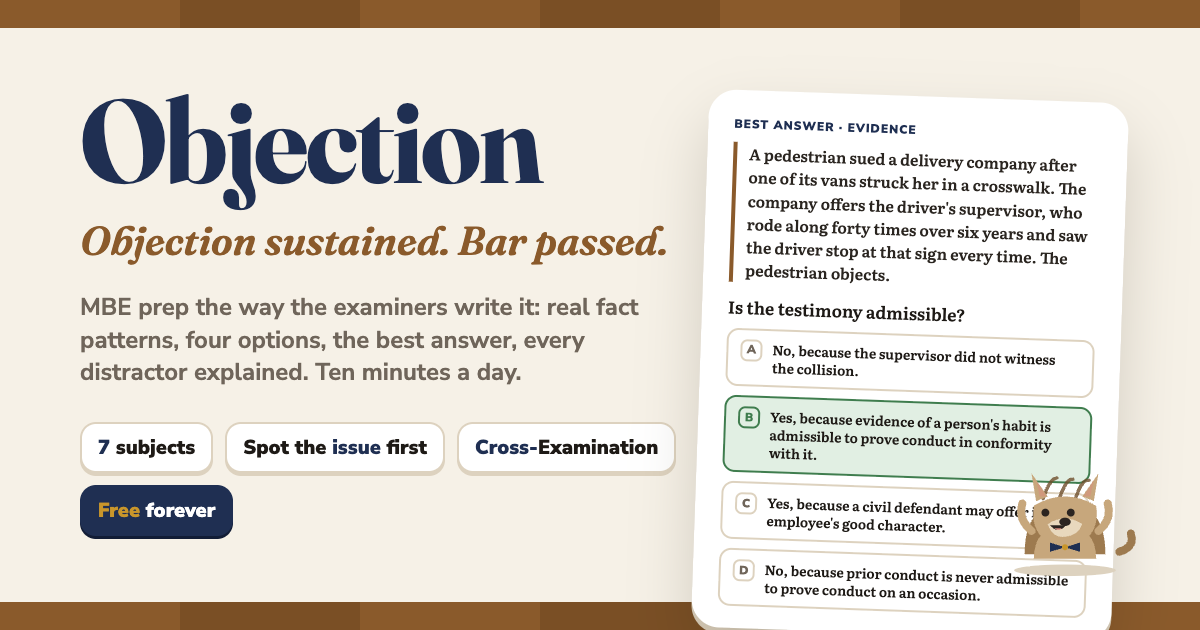
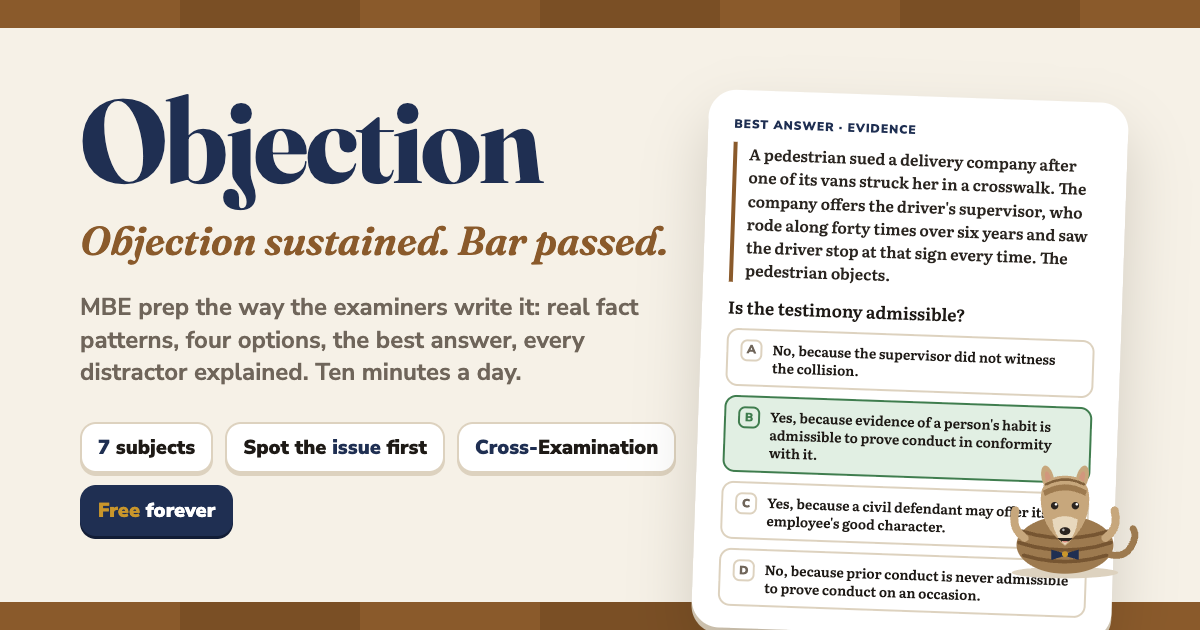
Final review: fix the delivery-of-possession rule, redraw Amicus, repair the build layout and tap-the-facts, add README
- u10: the English rule (landlord must deliver actual possession, the US majority) and the American rule (legal right only) were swapped in the rule card, its quiz and the hypo
- u9: FRE 807 no longer lists the pre-2019 'not covered by 803/804' element
- u1: a shorter controlling-law card
- Tap the deciding facts: tapping any word selects the whole fact, grading is per fact, the explanation no longer repeats the facts
- Spot the trap: the explanation no longer repeats itself when the classmate's answer is the key
- .stage children no longer shrink: the build slots were squeezed to 64px and the bank overlapped them
- Amicus redrawn as an armadillo (long snout, tall ears, banded shell, tail); amicus.svg, the share card and the icon are now generated from app.js's mascot()
- Greetings keep their capitals after the name; a perfect sitting says 'No objections.'
- README in Carpe's shape

Claude-Session: https://claude.ai/code/session_01RngvbApdeNcwjzaeWqZMFm

Changed region(s): [[0.8325, 0.7238, 0.9558, 0.9349]]

diff --git a/app/src/app.js b/app/src/app.js
@@ -53,39 +53,40 @@
   /** Amicus, the armadillo in a bow tie. mood: happy | sad | cheer | robe | sleepy */
   function mascot(mood = "happy") {
     const sad = mood === "sad", sleepy = mood === "sleepy";
+    // Eyes sit high on a long face; the snout runs down to the nose.
     const eyes = sleepy
-      ? '<path d="M50 56q4 3 8 0M72 56q4 3 8 0" stroke="var(--m-ink)" stroke-width="2.4" fill="none" stroke-linecap="round"/>'
+      ? '<path d="M52 50q4 3 8 0M70 50q4 3 8 0" stroke="var(--m-ink)" stroke-width="2.4" fill="none" stroke-linecap="round"/>'
       : sad
-        ? '<path d="M50 56q4-3 8 0M72 56q4-3 8 0" stroke="var(--m-ink)" stroke-width="2.4" fill="none" stroke-linecap="round"/><circle cx="54" cy="58" r="2" fill="var(--m-ink)"/><circle cx="76" cy="58" r="2" fill="var(--m-ink)"/>'
-        : '<circle cx="54" cy="56" r="3.4" fill="var(--m-ink)"/><circle cx="76" cy="56" r="3.4" fill="var(--m-ink)"/><circle cx="55.3" cy="54.8" r="1.1" fill="#fff"/><circle cx="77.3" cy="54.8" r="1.1" fill="#fff"/>';
+        ? '<path d="M51 48.5q4-4.5 9-2.5M70 46q5-2 9 2.5" stroke="var(--m-ink)" stroke-width="2.2" fill="none" stroke-linecap="round"/><circle cx="56" cy="52" r="2.4" fill="var(--m-ink)"/><circle cx="74" cy="52" r="2.4" fill="var(--m-ink)"/>'
+        : '<circle cx="56" cy="50" r="3.2" fill="var(--m-ink)"/><circle cx="74" cy="50" r="3.2" fill="var(--m-ink)"/><circle cx="57.2" cy="48.8" r="1.1" fill="#fff"/><circle cx="75.2" cy="48.8" r="1.1" fill="#fff"/>';
     const mouth = sad
-      ? '<path d="M59 75q6-4.5 12 0" stroke="var(--m-ink)" stroke-width="2.2" fill="none" stroke-linecap="round"/>'
+      ? '<path d="M60 82q5-3.5 10 0" stroke="var(--m-ink)" stroke-width="2.2" fill="none" stroke-linecap="round"/>'
       : mood === "cheer"
-        ? '<path d="M57 70.5q8 9 16 0z" fill="var(--m-ink)"/><path d="M61 73.5q4 3.5 8 0z" fill="var(--m-tongue)"/>'
-        : sleepy ? '<path d="M59 72q6 2.5 12 0" stroke="var(--m-ink)" stroke-width="2.2" fill="none" stroke-linecap="round"/>'
-          : '<path d="M58 70.5q7 5.5 14 0" stroke="var(--m-ink)" stroke-width="2.2" fill="none" stroke-linecap="round"/>';
-    // Armadillo, front view: a wide banded shell body, a pointed snout, small rounded ears and a banded cap on the
-    // head, a long tail, a bow tie at the neck. (Not a wolf: no pointed ears; not a bear: the snout and the bands.)
-    const bands = '<path d="M27 70q38 12 76 0M25 80q40 13 80 0M29 91q36 11 72 0" stroke="var(--m-band)" stroke-width="3.2" fill="none" stroke-linecap="round" opacity="0.85"/>';
+        ? '<path d="M58.5 78q6.5 7.5 13 0z" fill="var(--m-ink)"/><path d="M62 80.5q3 3 6 0z" fill="var(--m-tongue)"/>'
+        : sleepy ? '<path d="M60 79.5q5 2 10 0" stroke="var(--m-ink)" stroke-width="2.2" fill="none" stroke-linecap="round"/>'
+          : '<path d="M59.5 78.5q5.5 4.5 11 0" stroke="var(--m-ink)" stroke-width="2.2" fill="none" stroke-linecap="round"/>';
+    // Amicus, front view: a big banded shell, a long face that narrows to a snout with the nose at its tip, tall oval
+    // ears up top, a banded plate on the forehead, a tail curling out to the right, a bow tie under the chin.
+    const bands = '<path d="M27 72q38 12 76 0M25 82q40 13 80 0M29 93q36 11 72 0" stroke="var(--m-band)" stroke-width="3.2" fill="none" stroke-linecap="round" opacity="0.85"/>';
     const arms = mood === "cheer"
-      ? '<path d="M30 76q-12-8-8-24" stroke="var(--m-skin)" stroke-width="7" stroke-linecap="round" fill="none"/><path d="M100 76q12-8 8-24" stroke="var(--m-skin)" stroke-width="7" stroke-linecap="round" fill="none"/>'
-      : '<ellipse cx="46" cy="102" rx="9" ry="5" fill="var(--m-skin)"/><ellipse cx="84" cy="102" rx="9" ry="5" fill="var(--m-skin)"/>';
-    const robe = mood === "robe" ? '<path d="M32 88q33 14 66 0v18H32z" fill="#1a1a1f"/><path d="M58 88h14l-7 12z" fill="#fff"/>' : "";
-    const zz = sleepy ? '<text x="98" y="36" font-family="Fraunces, Georgia, serif" font-style="italic" font-weight="700" font-size="14" fill="var(--muted)">z z</text>' : "";
+      ? '<path d="M30 78q-12-8-8-24" stroke="var(--m-skin)" stroke-width="7" stroke-linecap="round" fill="none"/><path d="M100 78q12-8 8-24" stroke="var(--m-skin)" stroke-width="7" stroke-linecap="round" fill="none"/>'
+      : '<ellipse cx="44" cy="103" rx="9" ry="5" fill="var(--m-skin)"/><ellipse cx="86" cy="103" rx="9" ry="5" fill="var(--m-skin)"/><path d="M38 105v3M44 106v3M50 105v3M80 105v3M86 106v3M92 105v3" stroke="var(--m-ink)" stroke-width="1.6" stroke-linecap="round" opacity="0.6"/>';
+    const robe = mood === "robe" ? '<path d="M32 90q33 14 66 0v18H32z" fill="#1a1a1f"/><path d="M58 90h14l-7 12z" fill="#fff"/>' : "";
+    const zz = sleepy ? '<text x="98" y="30" font-family="Fraunces, Georgia, serif" font-style="italic" font-weight="700" font-size="14" fill="var(--muted)">z z</text>' : "";
     return `<svg class="mascot" viewBox="0 0 130 116" role="img" aria-label="Amicus, the armadillo">
-      <ellipse cx="65" cy="107" rx="46" ry="5" fill="var(--line)"/>
-      <path d="M100 92q16 2 20-10" stroke="var(--m-shell)" stroke-width="7" stroke-linecap="round" fill="none"/>
-      <ellipse cx="65" cy="82" rx="42" ry="26" fill="var(--m-shell)"/>
+      <ellipse cx="65" cy="108" rx="46" ry="5" fill="var(--line)"/>
+      <path d="M102 92q14 4 20-6t2-16" stroke="var(--m-shell)" stroke-width="6" stroke-linecap="round" fill="none"/>
+      <ellipse cx="65" cy="84" rx="42" ry="25" fill="var(--m-shell)"/>
       ${bands}
       ${arms}
-      <ellipse cx="42" cy="38" rx="7" ry="9" transform="rotate(-22 42 38)" fill="var(--m-skin)"/><ellipse cx="88" cy="38" rx="7" ry="9" transform="rotate(22 88 38)" fill="var(--m-skin)"/>
-      <ellipse cx="42.5" cy="39" rx="3.4" ry="5.4" transform="rotate(-22 42.5 39)" fill="var(--m-tongue)" opacity="0.5"/><ellipse cx="87.5" cy="39" rx="3.4" ry="5.4" transform="rotate(22 87.5 39)" fill="var(--m-tongue)" opacity="0.5"/>
-      <path d="M40 52q0-20 25-20t25 20q0 12-9 20l-16 10-16-10q-9-8-9-20z" fill="var(--m-skin)"/>
-      <path d="M42 45q23-16 46 0l-2.5 4q-20.500-12-41 0z" fill="var(--m-shell)"/><path d="M45 39.500q20-10.500 40 0" stroke="var(--m-band)" stroke-width="2.4" fill="none" stroke-linecap="round" opacity="0.8"/>
-      <ellipse cx="65" cy="67" rx="14" ry="11" fill="var(--m-belly)"/>
-      <ellipse cx="65" cy="63.500" rx="5" ry="3.600" fill="var(--m-ink)"/><circle cx="63.500" cy="62.500" r="1.100" fill="#fff" opacity="0.7"/>
+      <ellipse cx="50" cy="26" rx="5.2" ry="11" transform="rotate(-14 50 26)" fill="var(--m-skin)"/><ellipse cx="80" cy="26" rx="5.2" ry="11" transform="rotate(14 80 26)" fill="var(--m-skin)"/>
+      <ellipse cx="50.5" cy="27" rx="2.4" ry="7" transform="rotate(-14 50.5 27)" fill="var(--m-tongue)" opacity="0.55"/><ellipse cx="79.5" cy="27" rx="2.4" ry="7" transform="rotate(14 79.5 27)" fill="var(--m-tongue)" opacity="0.55"/>
+      <path d="M44 44q0-20 21-20t21 20q0 20-14 34q-4 5-7 7q-3-2-7-7q-14-14-14-34z" fill="var(--m-skin)"/>
+      <path d="M46 37q19-11 38 0l-1.5 4.5q-17.5-9.5-35 0z" fill="var(--m-shell)"/><path d="M48.5 31.5q16.5-8.5 33 0" stroke="var(--m-band)" stroke-width="2.2" fill="none" stroke-linecap="round" opacity="0.8"/>
+      <path d="M54 62q11-6 22 0q-1 14-11 22q-10-8-11-22z" fill="var(--m-belly)"/>
+      <ellipse cx="65" cy="72" rx="4.6" ry="3.4" fill="var(--m-ink)"/><circle cx="63.6" cy="71" r="1.1" fill="#fff" opacity="0.7"/>
       ${eyes}${mouth}
-      <path d="M53 85l12 3.500 12-3.500v9l-12-3.500-12 3.500z" fill="var(--brand)"/><circle cx="65" cy="89" r="2.600" fill="var(--brass)"/>
+      <path d="M53 88l12 3.5 12-3.5v9l-12-3.5-12 3.5z" fill="var(--brand)"/><circle cx="65" cy="92" r="2.6" fill="var(--brass)"/>
       ${robe}${zz}
     </svg>`;
   }
@@ -251,7 +252,7 @@
     if (!pool.length) return null;
     return pool[(Math.abs(E.daysBetween("2026-01-01", today())) * 7) % pool.length];
   }
-  const greetings = ["Ten minutes on the docket?", "One sitting keeps the streak alive.", "The call of the question first. Always.", "Objection is a muscle. Let's lift."];
+  const greetings = ["Ten minutes on the docket?", "One sitting keeps the streak alive.", "The call of the question first. Always.", "Every sitting is a rep. Let's lift."];
   function learnView() {
     const t = today();
     const todayXp = S.days[t] || 0;
@@ -265,7 +266,7 @@
     const rod = ruleOfDay();
     const name = S.name ? `${S.name}, ` : "";
     const late = new Date().getHours() >= 23;
-    const greet = late && cd.days <= 14 ? `${name}the exam is in the morning; so is the law. Sleep.` : todayXp >= S.goal ? `${name}goal billed for today. Sustained.` : S.lastDay === t ? `${name}good work. A little more reaches today's goal.` : `${name}${pick(greetings).toLowerCase()}`;
+    const greet = late && cd.days <= 14 ? `${name}the exam is in the morning; so is the law. Sleep.` : todayXp >= S.goal ? `${name}goal billed for today. Sustained.` : S.lastDay === t ? `${name}good work. A little more reaches today's goal.` : `${name}${name ? (g => g.charAt(0).toLowerCase() + g.slice(1))(pick(greetings)) : pick(greetings)}`;
     const seg = cd.phase.id === "foundations" ? 1 : cd.phase.id === "discovery" ? 2 : 3;
     const left = E.remainingSittings(IX, S);
     const perDay = cd.days > 0 ? Math.ceil((left / cd.days) * 2) / 2 : 0;
@@ -704,16 +705,26 @@
   // ---------- find (tap words in the stem) ----------
   function drawFind(q) {
     const sel = new Set();
-    const inner = `${header(q)}<p class="prompt">${esc(q.prompt)}</p><div class="findtext" id="find">${q.words.map((w, i) => `<button class="tok" data-i="${i}">${esc(w)}</button>`).join("")}</div>`;
+    const groups = q.groups && q.groups.length ? q.groups : [q.answer];
+    const groupOf = (i) => groups.find((g) => g.includes(i)) || [i]; // a phrase is tapped as one: any word selects the whole fact
+    const n = groups.length;
+    const inner = `${header(q)}<p class="prompt">${esc(q.prompt)}</p><p class="muted" style="font-weight:700;font-size:14px">${n === 1 ? "One fact decides it. Tap a word in it." : `${["", "", "Two", "Three", "Four", "Five"][n] || n} facts decide it. Tap a word in each.`}</p><div class="findtext" id="find">${q.words.map((w, i) => `<button class="tok" data-i="${i}">${esc(w)}</button>`).join("")}</div>`;
     shell(inner, footerBtn("Check", "", "check", true));
     const check = $("#check");
-    $$(".tok").forEach((b) => b.addEventListener("click", () => { if (run.answered) return; const i = +b.dataset.i; if (sel.has(i)) sel.delete(i); else sel.add(i); b.classList.toggle("sel", sel.has(i)); check.disabled = sel.size === 0; }));
+    const toks = $$(".tok");
+    toks.forEach((b) => b.addEventListener("click", () => {
+      if (run.answered) return;
+      const g = groupOf(+b.dataset.i);
+      const on = !sel.has(g[0]);
+      for (const i of g) { if (on) sel.add(i); else sel.delete(i); toks[i].classList.toggle("sel", on); }
+      check.disabled = sel.size === 0;
+    }));
     check.addEventListener("click", () => {
       if (run.answered) return;
       run.answered = true;
       const want = new Set(q.answer);
       let ok = sel.size === want.size;
-      $$(".tok").forEach((b) => { const i = +b.dataset.i; b.classList.remove("sel"); if (want.has(i) && sel.has(i)) b.classList.add("ok"); else if (sel.has(i)) { b.classList.add("bad"); ok = false; } else if (want.has(i)) { b.classList.add("miss"); ok = false; } });
+      toks.forEach((b) => { const i = +b.dataset.i; b.classList.remove("sel"); if (want.has(i) && sel.has(i)) b.classList.add("ok"); else if (sel.has(i)) { b.classList.add("bad"); ok = false; } else if (want.has(i)) { b.classList.add("miss"); ok = false; } });
       resolve(q, ok);
     });
   }
@@ -831,7 +842,7 @@
     if (q.type === "build") return esc(q.answer.join(q.orderFree ? " · " : " → "));
     if (q.type === "type") return esc(q.answer[0]);
     if (q.type === "tf") return esc(q.answer ? q.yes : q.no);
-    if (q.type === "find") return esc(q.answer.map((i) => q.words[i]).join(" "));
+    if (q.type === "find") return esc((q.groups && q.groups.length ? q.groups : [q.answer]).map((g) => g.map((i) => q.words[i]).join(" ")).join(" · "));
     if (q.type === "spot") return esc(q.fix);
     return "";
   }
@@ -889,7 +900,7 @@
     const streakLine = !wasActive && st.streakUp ? (st.usedFreeze ? `A continuance saved the streak. ${plural(S.streak, "day", "days")} on the docket.` : S.streak > 1 ? `${plural(S.streak, "day", "days")} on the docket.` : "Day 1 on the docket. See you tomorrow.") : `Streak: ${plural(S.streak, "day", "days")}.`;
     shell(`<div class="results">
       ${mascot("cheer")}
-      <h1>${perfect && run.scored ? "Sine errore." : acc < 50 ? pick(["Overruled, for now.", "The notebook learns first.", "Again, with the notebook."]) : pick(["Sustained.", "Court is adjourned.", "Well argued."])}</h1>
+      <h1>${perfect && run.scored ? "No objections." : acc < 50 ? pick(["Overruled, for now.", "The notebook learns first.", "Again, with the notebook."]) : pick(["Sustained.", "Court is adjourned.", "Well argued."])}</h1>
       <div class="resgrid">
         <div class="res gold"><div class="h">Billed</div><div class="v">+${gained}m</div></div>
         <div class="res olive"><div class="h">Accuracy</div><div class="v">${acc}%</div></div>

diff --git a/app/src/units/u10.js b/app/src/units/u10.js
@@ -42,7 +42,7 @@
     title: "Real Property I: ownership and rights in land",
     blurb: "Two of Property's five equal fifths: who owns the land, and what everyone else may do on it.",
     subject: "property",
-    assume: "Defaults for this unit, because the stems announce anything else: common law with the modern majority rule wherever one exists (lien theory of mortgages; the American rule on delivery of possession; mitigation after abandonment; an implied warranty of habitability in residential leases; no self-help eviction). Shelley's Case, Worthier Title and the destructibility of contingent remainders are abolished. The common-law Rule Against Perpetuities applies unmodified unless the stem names a reform. A stem names any recording act, limitations period, Restatement adoption or zoning ordinance it needs.",
+    assume: "Defaults for this unit, because the stems announce anything else: common law with the modern majority rule wherever one exists (lien theory of mortgages; the English rule on delivery of possession (the landlord must deliver actual possession); mitigation after abandonment; an implied warranty of habitability in residential leases; no self-help eviction). Shelley's Case, Worthier Title and the destructibility of contingent remainders are abolished. The common-law Rule Against Perpetuities applies unmodified unless the stem names a reform. A stem names any recording act, limitations period, Restatement adoption or zoning ordinance it needs.",
     exam: ["mbe", "nextgen"],
     lessons: [
       // ------------------------------------------------------------------------------------------------------------------
@@ -1377,14 +1377,14 @@
               "Periodic: renews until a full period's notice, ending at the end of a period",
               "At will: no fixed term, and either side may end it",
               "Holdover: the landlord elects to evict or to bind the tenant to a periodic tenancy; accepting rent is the election",
-              "The landlord must deliver actual possession on the day the term begins (American rule)",
+              "The landlord must deliver actual possession on the day the term begins (English rule, the majority in the US)",
             ],
             ordered: false,
             split: {
-              majority: "American rule: the landlord must deliver actual possession when the term begins.",
-              minority: "English rule: the landlord need only deliver the legal right to possession.",
+              majority: "English rule (the majority of US jurisdictions): the landlord must deliver actual possession when the term begins.",
+              minority: "American rule: the landlord need only deliver the legal right to possession; the new tenant must evict a holdover.",
             },
-            splitNote: "The stem names the rule if it matters. The American rule is this unit's default.",
+            splitNote: "The stem names the rule if it matters. The names are the trap: the English rule is the US majority, and it is this unit's default.",
             exceptions: [
               "An oral lease that the statute of frauds makes unenforceable as a term usually creates a periodic tenancy measured by the rent period",
               "Notice must be at least one full period and must end the tenancy at the end of a period. At common law, year-to-year tenancies need six months' notice, and statutes often shorten the notice further",
@@ -1394,13 +1394,13 @@
             cite: "NCBE MBE Subject Matter Outline (Real Property I.C)", citeAsk: "Which part of the NCBE outline covers types of tenancies, possession and rent?",
             ex: [
               { facts: "A one-year lease ends June 30; the tenant stays and the landlord accepts July's rent.", result: "The landlord elected a periodic tenancy and cannot evict at once as a trespasser." },
-              { facts: "On the first day of the term the prior tenant is still in the house.", result: "American rule: the landlord breached, and the new tenant may terminate and recover damages." },
+              { facts: "On the first day of the term the prior tenant is still in the house.", result: "English rule (majority): the landlord breached, and the new tenant may terminate and recover damages." },
             ],
             terms: ["term of years", "periodic tenancy", "tenancy at will", "tenancy at sufferance", "holdover"],
             quiz: [
               { t: "tf", q: "A tenant whose one-year lease has ended, who stays, and whose rent the landlord then accepts, may be evicted at once as a trespasser.", a: false, why: "Accepting rent after the term is the landlord's election to treat the tenant as a periodic tenant." },
               { t: "mcq", q: "A tenant under an oral three-year lease (the statute of frauds requires a writing for leases over one year) takes possession and pays monthly rent. What does the tenant hold?", options: ["A month-to-month periodic tenancy", "A three-year term of years", "A tenancy at sufferance"], a: "A month-to-month periodic tenancy", why: "The oral term is unenforceable, but possession plus rent usually creates a periodic tenancy measured by the rent period." },
-              { t: "tf", q: "Under the American rule, the landlord must deliver actual possession when the term begins.", a: true, why: "The English rule, which requires only the legal right to possession, is the minority view." },
+              { t: "tf", q: "Under the American rule, the landlord must deliver actual possession when the term begins.", a: false, why: "The names are backwards from what you would guess: the English rule (the US majority) requires actual possession; the American rule, the minority, requires only the legal right to possession." },
               { t: "tf", q: "At common law, a landlord may end a year-to-year tenancy by giving one day's notice before the year ends.", a: false, why: "Notice must be at least one full period and end the tenancy at the end of a period, but at common law six months' notice suffices for a year-to-year tenancy." },
             ],
             status: "general", src: "property.md Module 5; NCBE MBE Subject Matter Outline, Real Property I.C (headings)",
@@ -1436,18 +1436,18 @@
             status: "general", src: "property.md Module 5 (P5-2 rewritten)",
           },
           {
-            id: "u10-h-delivery", kind: "hypo", cat: "I.C", callType: "status", rule: "u10-r-tenancies", issue: "American rule on delivery of possession",
-            stem: "In a jurisdiction that follows the American rule on delivery of possession, a landlord leased a house to a tenant for a one-year term beginning September 1. On September 1, the prior tenant, whose lease had expired, was still in the house and refused to leave. The landlord told the new tenant to evict the prior tenant at the new tenant's own expense. The new tenant has paid no rent.",
+            id: "u10-h-delivery", kind: "hypo", cat: "I.C", callType: "status", rule: "u10-r-tenancies", issue: "English rule on delivery of possession",
+            stem: "In a jurisdiction that follows the English rule on delivery of possession, a landlord leased a house to a tenant for a one-year term beginning September 1. On September 1, the prior tenant, whose lease had expired, was still in the house and refused to leave. The landlord told the new tenant to evict the prior tenant at the new tenant's own expense. The new tenant has paid no rent.",
             call: "Which statement is correct?",
             options: [
-              { text: "The new tenant may terminate the lease and recover damages, because the landlord must deliver actual possession on the day the term begins.", why: "Under the American rule a prior holdover in possession is the landlord's breach of the duty to deliver actual possession." },
-              { text: "The new tenant must bring an eviction action against the prior tenant, because the landlord must deliver the legal right to possession, not physical possession.", why: "That is the English rule. The stem names the American rule.", trap: 4 },
+              { text: "The new tenant may terminate the lease and recover damages, because the landlord must deliver actual possession on the day the term begins.", why: "Under the English rule a prior holdover in possession is the landlord's breach of the duty to deliver actual possession." },
+              { text: "The new tenant must bring an eviction action against the prior tenant, because the landlord must deliver the legal right to possession, not physical possession.", why: "That is the American rule, the minority. The stem names the English rule.", trap: 4 },
               { text: "The new tenant owes rent from September 1, because the lease took effect when the term began.", why: "Rent is owed for premises the landlord delivers. A landlord who breaches the duty of delivery cannot demand it.", trap: 5 },
               { text: "The lease is void for failure of consideration, so the new tenant has no remedy against the landlord.", why: "The lease is valid, and the tenant has remedies against the landlord.", trap: 5 },
             ],
             answer: 0,
-            facts: ["American rule on delivery of possession", "refused to leave"],
-            say: "American rule: the landlord must hand over actual possession, not just the right to it.",
+            facts: ["English rule on delivery of possession", "refused to leave"],
+            say: "English rule (US majority): the landlord must hand over actual possession, not just the right to it.",
             status: "general", src: "property.md Module 5 (P5-3 rewritten)",
           },
           {

diff --git a/app/brand/og.html b/app/brand/og.html
@@ -46,5 +46,5 @@
   <div class="opt"><span class="k">C</span>Yes, because a civil defendant may offer its employee's good character.</div>
   <div class="opt"><span class="k">D</span>No, because prior conduct is never admissible to prove conduct on an occasion.</div>
 </div>
-<svg class="ami" viewBox="0 0 130 116"><ellipse cx="65" cy="106" rx="44" ry="5" fill="#ddd2bf"/><path d="M30 92q0-44 35-44t35 44z" fill="#9d7a4f"/><path d="M46 44q6-18 12-18M60 44q6-18 12-17M74 44q6-18 12-16" stroke="#6f4f2c" stroke-width="3" fill="none" stroke-linecap="round" opacity=".8"/><path d="M112 90q14-4 10-16" stroke="#9d7a4f" stroke-width="7" stroke-linecap="round" fill="none"/><path d="M38 96q0-28 27-28t27 28z" fill="#c7a77c"/><path d="M36 72q-12-10-8-24" stroke="#c7a77c" stroke-width="7" stroke-linecap="round" fill="none"/><path d="M94 72q12-10 8-24" stroke="#c7a77c" stroke-width="7" stroke-linecap="round" fill="none"/><path d="M40 46 36 22l14 20z" fill="#c7a77c"/><path d="M90 46l4-24-14 20z" fill="#c7a77c"/><path d="M43 42 40 28l9 14z" fill="#d98a7e" opacity=".5"/><path d="M87 42l3-14-9 14z" fill="#d98a7e" opacity=".5"/><path d="M38 50q-3 20 10 30 17 9 34 0 13-10 10-30-27-16-54 0z" fill="#c7a77c"/><path d="M50 66q15-10 30 0-4 10-15 11t-15-11z" fill="#e8d8bd"/><ellipse cx="65" cy="64" rx="5" ry="3.6" fill="#2b2420"/><circle cx="48" cy="56" r="3.4" fill="#2b2420"/><circle cx="70" cy="56" r="3.4" fill="#2b2420"/><path d="M52 67q7 8 14 0z" fill="#2b2420"/><path d="M55.5 69.5q3.5 3 7 0z" fill="#d98a7e"/><path d="M52 82l13 4 13-4v8l-13-4-13 4z" fill="#1f2f52"/><circle cx="65" cy="86" r="2.6" fill="#c9962b"/></svg>
+<svg class="ami" viewBox="0 0 130 116"><ellipse cx="65" cy="108" rx="46" ry="5" fill="#ddd2bf"/><path d="M102 92q14 4 20-6t2-16" stroke="#9d7a4f" stroke-width="6" stroke-linecap="round" fill="none"/><ellipse cx="65" cy="84" rx="42" ry="25" fill="#9d7a4f"/><path d="M27 72q38 12 76 0M25 82q40 13 80 0M29 93q36 11 72 0" stroke="#6f4f2c" stroke-width="3.2" fill="none" stroke-linecap="round" opacity="0.85"/><path d="M30 78q-12-8-8-24" stroke="#c7a77c" stroke-width="7" stroke-linecap="round" fill="none"/><path d="M100 78q12-8 8-24" stroke="#c7a77c" stroke-width="7" stroke-linecap="round" fill="none"/><ellipse cx="50" cy="26" rx="5.2" ry="11" transform="rotate(-14 50 26)" fill="#c7a77c"/><ellipse cx="80" cy="26" rx="5.2" ry="11" transform="rotate(14 80 26)" fill="#c7a77c"/><ellipse cx="50.5" cy="27" rx="2.4" ry="7" transform="rotate(-14 50.5 27)" fill="#d98a7e" opacity="0.55"/><ellipse cx="79.5" cy="27" rx="2.4" ry="7" transform="rotate(14 79.5 27)" fill="#d98a7e" opacity="0.55"/><path d="M44 44q0-20 21-20t21 20q0 20-14 34q-4 5-7 7q-3-2-7-7q-14-14-14-34z" fill="#c7a77c"/><path d="M46 37q19-11 38 0l-1.5 4.5q-17.5-9.5-35 0z" fill="#9d7a4f"/><path d="M48.5 31.5q16.5-8.5 33 0" stroke="#6f4f2c" stroke-width="2.2" fill="none" stroke-linecap="round" opacity="0.8"/><path d="M54 62q11-6 22 0q-1 14-11 22q-10-8-11-22z" fill="#e8d8bd"/><ellipse cx="65" cy="72" rx="4.6" ry="3.4" fill="#2b2420"/><circle cx="63.6" cy="71" r="1.1" fill="#fff" opacity="0.7"/><circle cx="56" cy="50" r="3.2" fill="#2b2420"/><circle cx="74" cy="50" r="3.2" fill="#2b2420"/><circle cx="57.2" cy="48.8" r="1.1" fill="#fff"/><circle cx="75.2" cy="48.8" r="1.1" fill="#fff"/><path d="M58.5 78q6.5 7.5 13 0z" fill="#2b2420"/><path d="M62 80.5q3 3 6 0z" fill="#d98a7e"/><path d="M53 88l12 3.5 12-3.5v9l-12-3.5-12 3.5z" fill="#1f2f52"/><circle cx="65" cy="92" r="2.6" fill="#c9962b"/></svg>
 </body></html>

diff --git a/app/src/engine.js b/app/src/engine.js
@@ -539,14 +539,20 @@ const Engine = (() => {
     const toks = tokens(it.stem);
     const keys = toks.map(stripMarks);
     const answer = new Set();
+    const groups = []; // one group of token indices per deciding fact: tapping any word of a phrase selects the phrase
     for (const f of it.facts) {
       const want = tokens(f).map(stripMarks);
       for (let i = 0; i + want.length <= keys.length; i++) {
-        if (want.every((w, k) => keys[i + k] === w)) { for (let k = 0; k < want.length; k++) answer.add(i + k); break; }
+        if (want.every((w, k) => keys[i + k] === w)) {
+          const g = [];
+          for (let k = 0; k < want.length; k++) { answer.add(i + k); g.push(i + k); }
+          groups.push(g);
+          break;
+        }
       }
     }
     if (!answer.size) return null;
-    return { type: "find", itemId: it.id, label: L.find, prompt: it.findAsk || `Tap the words that decide: ${it.call}`, words: toks, answer: [...answer].sort((a, b) => a - b), explain: `${it.facts.join("; ")}. ${it.options[it.answer].why || ""}`.trim() };
+    return { type: "find", itemId: it.id, label: L.find, prompt: it.findAsk || `Tap the words that decide: ${it.call}`, words: toks, answer: [...answer].sort((a, b) => a - b), groups, explain: (it.options[it.answer].why || it.say || "").trim() };
   }
   /** A wrong option shown as a student's pick: key or distractor? then the fix. */
   function qSpotOption(ix, it, r) {
@@ -556,7 +562,7 @@ const Engine = (() => {
     const i = showWrong ? wrongs[Math.floor(r() * wrongs.length)] : it.answer;
     const shown = it.options[i];
     const fixOptions = shuffle(it.options.map(optText), r);
-    return { type: "spot", itemId: it.id, label: L.spot, prompt: `${it.call} A classmate answered:`, stem: it.stem, shown: optText(shown), isRight: !showWrong, fixOptions, fix: optText(it.options[it.answer]), trapType: showWrong ? shown.trap : null, explain: `${showWrong ? `${TRAP_TYPES[shown.trap] || "Distractor"}: ${shown.why || ""}` : shown.why || ""} ${it.options[it.answer].why || ""}`.trim() };
+    return { type: "spot", itemId: it.id, label: L.spot, prompt: `${it.call} A classmate answered:`, stem: it.stem, shown: optText(shown), isRight: !showWrong, fixOptions, fix: optText(it.options[it.answer]), trapType: showWrong ? shown.trap : null, explain: (showWrong ? `${TRAP_TYPES[shown.trap] || "Distractor"}: ${shown.why || ""} ${it.options[it.answer].why || ""}` : shown.why || "").trim() };
   }
 
   // rules

diff --git a/app/src/units/u9.js b/app/src/units/u9.js
@@ -3276,7 +3276,7 @@
           {
             id: "u9-r-807", exam: ["mbe"], kind: "rule", title: "The residual exception", cat: "V.K",
             say: "The residual exception needs trustworthiness, higher probative value than other evidence the proponent can obtain, and notice.",
-            elements: ["Sufficient guarantees of trustworthiness in the totality of circumstances, and corroborating evidence if any", "More probative on the point than any other evidence the proponent can obtain through reasonable efforts", "Reasonable written pretrial notice of the substance and the declarant's name", "The statement does not fit a category in Rule 803 or 804"],
+            elements: ["Sufficient guarantees of trustworthiness in the totality of circumstances, and corroborating evidence if any", "More probative on the point than any other evidence the proponent can obtain through reasonable efforts", "Reasonable written pretrial notice of the substance and the declarant's name", "It applies even when the statement is a near miss under Rule 803 or 804 (the 2019 text dropped the old not-specifically-covered wording)"],
             ordered: false,
             exceptions: ["Rule 807 is rarely the best answer: use it only when no categorical exception fits", "The court may excuse late notice for good cause"],
             cite: "FRE 807", citeAsk: "Which rule is the residual exception to the hearsay rule?",

diff --git a/app/src/units/u1.js b/app/src/units/u1.js
@@ -31,7 +31,7 @@
     title: "Read the call: how an MBE question works",
     blurb: "Twenty minutes on the paper, the anatomy of an item, the fourteen calls and the eleven traps. Everything else builds on it.",
     subject: "skills",
-    assume: "This unit teaches the exam, not a subject. It borrows a handful of small rules that need no prior lesson (removal, habit evidence, contract modification, Miranda, the Torts fault defaults) so you can practise reading the call on day one. Each subject unit opens with its own controlling-law card, because the exam does.",
+    assume: "No subject yet: this unit teaches the exam itself. The few rules it borrows for practice (removal, habit evidence, UCC modification, Miranda) come back in full in their own units.",
     exam: ["mbe", "nextgen"],
     lessons: [
       // ------------------------------------------------------------------------------------------------

diff --git a/app/src/style.css b/app/src/style.css
@@ -185,6 +185,7 @@ body.run-open { overflow: hidden; } /* the page behind a run must not scroll und
 .timer { height: 8px; border-radius: 999px; background: var(--surface-2); overflow: hidden; margin-top: 10px; }
 .timer > i { display: block; height: 100%; width: 100%; background: var(--flame); transform-origin: left; }
 .stage { flex: 1; overflow-y: auto; padding-block: 22px 18px; display: flex; flex-direction: column; gap: 18px; min-height: 0; }
+.stage > * { flex-shrink: 0; } /* the stage scrolls; its blocks (slots, option lists, stems) must never be squeezed to their min-height */
 .qlabel { font-size: 13px; font-weight: 900; letter-spacing: 0.08em; text-transform: uppercase; color: var(--brand); display: flex; gap: 8px; align-items: center; flex-wrap: wrap; }
 .qlabel.guess { color: var(--brass-deep); }
 .qlabel .marks { margin-left: auto; color: var(--muted); text-transform: none; letter-spacing: 0; }

diff --git a/app/test/engine.test.js b/app/test/engine.test.js
@@ -227,6 +227,9 @@ test("find marks the deciding facts in the stem despite punctuation", () => {
   const it = IX.items.get("u0-h-forum-defendant");
   const q = E.qFind(IX, it);
   assert.deepEqual(q.answer.map((i) => q.words[i]).join(" "), "State C state court principal place of business in State C.", "tokens come back in stem order");
+  assert.equal(q.groups.length, it.facts.length, "one tap group per deciding fact");
+  assert.deepEqual(q.groups.flat().slice().sort((a, b) => a - b), q.answer, "the groups cover exactly the answer tokens");
+  assert.ok(!q.explain.includes(it.facts[0]), "the explanation does not repeat the facts the answer line already shows");
 });
 
 test("the grid question splits the options into two verdicts and keeps the key", () => {

diff --git a/README.md b/README.md
@@ -1,0 +1,119 @@
+# Objection
+
+*Objection sustained. Bar passed.*
+
+**Live:** https://objection-bar.vercel.app (placeholder: not deployed yet; the Vercel project does not exist until the first `vercel deploy`)
+
+**Open source** under the [MIT license](LICENSE). Free, and it will always be free. No account, no ads. The only thing we do is measure how it's used with [PostHog](https://posthog.com) (anonymous; session recordings hide anything typed) so we can make it better. Corrections to the law are very welcome: open an issue or a pull request, and say which rule, statute or case you checked.
+
+![Objection: MBE prep the way the examiners write it](app/brand/og.png)
+
+Objection is a playful, Duolingo-style web app that prepares a US law graduate for the **Multistate Bar Examination (MBE)**, the 200-question multiple-choice half of the bar exam. It is a sibling of [Carpe](https://github.com/ionpetro/carpe) (Latin for the Greek Panhellenic exams) and [Skepsis](https://github.com/ionpetro/skepsis) (Greek roots for English speakers) and keeps their tricks: guess-first openers, apply-the-rule-to-new-facts, build-from-tiles, match pairs, yes/no sorting, spaced review, streaks with freezes and no hearts, badges, a timed speed round, a mascot with moods. Plain JavaScript, no framework, one HTML file. Run `npm test && npm run build`, then serve `app/vercel/`.
+
+---
+
+## What it is
+
+An app for the phone and the laptop that makes MBE prep a game: ten minutes a sitting, with every question in the shape the examiners use (a fact pattern with no names, one call, four options, **the best answer**, and a reason every distractor is wrong). The mascot is **Amicus**, an armadillo in a bow tie (amicus curiae, "friend of the court"; the armadillo is the Texas nod). Points are **billable minutes**, the speed round is **Cross-Examination** (one wrong answer and the witness walks), the ranks run from 1L through Associate and Partner to Judge and Justice, and the mistakes notebook is called **Overruled**.
+
+## The exam, and which exam
+
+The MBE is 200 four-option questions in two 3-hour sessions (175 scored, 25 unscored pretest, no penalty for guessing), **25 scored questions in each of seven subjects**: Civil Procedure, Constitutional Law, Contracts, Criminal Law and Procedure, Evidence, Real Property, Torts. It is half of the Uniform Bar Examination score (MEE 30%, MPT 20%).
+
+NCBE's **NextGen UBE** is live (first given July 2026 in ten jurisdictions; about a dozen more join in July 2027, the big states in 2028), but **the legacy MBE runs through February 2028 and is what the large majority of candidates sit in February and July 2027**, including California, New York, Texas, Florida, Illinois and Pennsylvania. Objection therefore targets the MBE. Seven of NextGen's eight concepts are the MBE subjects under the same law, so a NextGen candidate can use it too (there is a setting for that, which shows what carries over); it does not yet cover Business Associations, integrated question sets or performance tasks. Dates, adopters and sources: [`research/format.md`](research/format.md) and [`research/questions.md`](research/questions.md). Confirm your exam and date with your board.
+
+## What it covers
+
+14 courtrooms on the courthouse path, 2,423 cards, about 500 ten-minute sittings:
+
+| # | Courtroom | Outline target |
+|---|---|---|
+| 1 | Read the call: how an MBE question works | the paper, the fourteen call families, the eleven distractor types, the clock |
+| 2 | Civil Procedure I: getting into federal court | jurisdiction, removal, personal jurisdiction, service, venue, Erie |
+| 3 | Civil Procedure II: running the case | pleadings, Rule 11, joinder, discovery, Rule 12 and 56 motions, jury, judgments, preclusion, appeals |
+| 4 | Constitutional Law I: the structure | justiciability, Congress, the President, federalism |
+| 5 | Constitutional Law II: individual rights | state action, due process, equal protection, takings, the First Amendment |
+| 6 | Contracts and Sales | formation to remedies, common law and UCC Article 2 side by side |
+| 7 | Criminal Law | homicide, the other crimes, inchoate offenses, parties, defenses |
+| 8 | Criminal Procedure | the Fourth, Fifth and Sixth Amendments and the accused |
+| 9 | Evidence (FRE) | relevancy, character, impeachment, hearsay, privileges, writings |
+| 10 | Real Property I | estates, future interests, RAP, cotenancy, landlord-tenant, easements, covenants, zoning |
+| 11 | Real Property II | land contracts, mortgages, foreclosure, adverse possession, deeds, recording |
+| 12 | Torts | intentional torts, negligence (half the subject), strict and products liability, defamation and privacy |
+| 13 | Objection Latin | the vocabulary of the exam and the numbers it tests (days, dollars, rule numbers) |
+| 14 | Traps, distractors and exam day | the distractor types as a game, plus the last fourteen days |
+
+Each subject unit opens with its **controlling-law card**, because the exam states it: FRCP and Title 28 for Civil Procedure, the federal Constitution, UCC Articles 1 and 2, the Federal Rules of Evidence as currently in effect, joint and several liability with pure comparative fault in Torts, and the common law with the majority rule in Criminal Law and Property unless the stem says otherwise. Where the law is split, the stem names the rule ("a race-notice statute", "the jurisdiction follows the Model Penal Code"), as the MBE does. Nothing is state-specific.
+
+The subject weights (25 each) and the weights inside each subject come from NCBE's subject matter outline and nothing finer; the app shows no invented percentages.
+
+How it plays:
+
+- **Lesson** ("sitting"): opens with **Spot the issue** (a hypo you have not been taught; no penalty), then each rule is taught in one breath and asked at once, then the harder questions (the best answer on a full hypo, **verdict then reason**, **new facts, same rule**, best argument, the elements built from tiles, a decision tree in order, which rule number, tap the deciding facts, spot the trap in a classmate's answer, majority or minority), then a match round, and at the end whatever you missed comes back.
+- **Review**: Leitner boxes (1, 3, 7, 14, 30, 60 days). In the last two weeks every card comes forward.
+- **Question of the Day**: one subject per weekday, five questions, exam pace, scored like the exam.
+- **Mini-MBE**: 25 questions in 45 minutes, answers hidden until the end, a per-subject breakdown, then a walk-through.
+- **Cross-Examination**: 15 seconds a question, one miss and the witness walks.
+- **Flash review**: 25 cards in two minutes, self-graded.
+- **Overruled**: the notebook of what you missed twice, worst first, with the distractor type you keep falling for.
+- **Streak**: weekends never break it, one continuance a week and another every seven days of streak (up to two). No hearts, no punishment.
+
+The home screen counts down to the exam (presets for Feb 24, 2027, Jul 28, 2027 and Feb 23, 2028, or a custom date) and says what pace finishes every courtroom in time. The phases are **Foundations** (learn), **Discovery** (mixed practice, a Mini-MBE a week) and **Closing argument** (the last fourteen days: review only, everything due pulled forward).
+
+## How to run
+
+```
+npm test          # validator + engine tests (node:test) over every unit, about 10 seconds
+npm run validate  # the validator's readable report for all units (0 errors required; read the warnings)
+npm run build     # app/dist/index.html (one file) + app/vercel/ (site: app, /outline, /about, sitemap, manifest, icons)
+npm run og        # re-render app/brand/og.png from og.html (headless Chrome)
+```
+
+Locally: `npm run build && python3 -m http.server 8765 --directory app/vercel` and open `http://127.0.0.1:8765/`. Deploy: `npm run build && cd app/vercel && vercel deploy --prod` (with `POSTHOG_KEY` in `app/.env`, which stays out of git, PostHog loads; without it, no analytics). Progress stays on the device (`localStorage`). Node only, no dependencies; the fonts (Fraunces, Nunito Sans, Literata) load from Google Fonts with fallbacks.
+
+## How the content is organised
+
+```
+app/
+  src/units/u1.js … u14.js   one unit per file, plain JS objects (schema: app/CONTENT_SCHEMA.md)
+  src/units/u0_example.js    the example with every kind of card (not in the build)
+  src/engine.js              pure logic: dates, streaks, boxes, question builders, the daily, the mock, Cross-Examination, ranks
+  src/app.js                 the UI (Amicus, the courthouse, Outline, Chambers, a renderer per question type)
+  src/style.css, shell.html  courtroom palette, dark mode, phone first
+  tools/validate.js          the content validator
+  test/                      content.test.js (every unit passes the validator, every question plays) and engine.test.js
+  build.mjs, site.mjs        the one-file build and the Vercel site
+  brand/                     Amicus, the share card and its renderer
+research/                    the research behind the content (see Sources)
+```
+
+The ten kinds of card: `rule` (elements in order, exceptions, the majority/minority split, the cite, examples, inline checks), `hypo` (the MBE item: stem, call, four options each with a reason and a distractor type, the deciding facts), `argue` (best argument or objection), `steps` (a decision tree in order), `pairs` (case and holding, rule number and rule, term and meaning), `sort` (yes/no or category buckets), `num` (a tested number or deadline), `case` (name, year, holding, what it replaced), `term` (law Latin, law French, terms of art), `trap` (a tempting wrong answer and why).
+
+Every card declares its **provenance**: `status` is `book` (read in the primary text: FRE, FRCP, Title 28, UCC, the Constitution, a Restatement section, a Supreme Court opinion), `exam` (NCBE itself says so, in its outline or notes; never a copied question), `general` (standard black-letter doctrine not re-read in primary text this project) or `unsure` ("under review": never drawn by the Question of the Day or the mocks), and `src` says where it was checked. The learner sees only what makes sense ("FRE 803(6)", "Crawford v. Washington (2004)"); research file names are hidden. Cards on decisions from mid-2024 on carry `recent: true` and say so (48 of them), because NCBE items take about three years to reach the exam. The validator rejects a hypo without exactly one untrapped option, options that repeat, a `say` line over 160 characters, a rule without 2-7 elements, a hypo whose `rule` does not resolve, and more.
+
+To add content: copy the shape from `u0_example.js`, write into the matching `uN.js`, run `npm test`. Hypos with `transfer: true` are asked cold ("New facts, same rule") and never introduced.
+
+## Sources and the no-copying policy
+
+NCBE owns its released questions, and the commercial outlines (Barbri, Themis, Kaplan and the rest) are copyrighted. **No NCBE question text and no commercial-outline text appears in the app or in this repository.** Every fact pattern, rule statement and explanation was written for Objection from primary law and public sources. Anything downloaded for reference (the free NCBE sample questions and subject matter outline, raw dumps) stays in `research/pastquestions-raw/` and `research/source-data/`, which are gitignored. Keep them out.
+
+The research is in `research/` (done 2026-11-02; each file says what was read in full and what was not):
+
+- `format.md`: the exam as given in 2027, NextGen's adoption table, dates, scores, pass rates, and what NCBE says about its own weights.
+- `questions.md`: how an MBE item is built (the call families, the distractor types, timing), from NCBE's public pages and sample items, read and never copied.
+- `civpro.md`, `conlaw.md`, `contracts.md`, `crim.md`, `evidence.md`, `property.md`, `torts.md`: the law of each subject against the NCBE outline, with every rule marked by where it was verified.
+- `hooks.md` + `hooks.jsonl`: the stories and mnemonics behind the cards.
+- `CURRICULUM.md`: the design of the 14 units and why.
+- `skepsis-learning-science.md`: the literature behind the tricks (retrieval, spacing, guess-first, no punishment), inherited from Skepsis.
+
+## What is still open
+
+- **28 cards are `unsure`** ("under review"): they need a bar tutor. See them with `npm run validate`.
+- **A second pair of eyes on the law.** The final review sampled 76 items at random across the units and found one wrong rule (the English and American rules on delivery of possession were swapped in u10; fixed) and one stale element (FRE 807's pre-2019 "not specifically covered" wording; fixed). The rest of the 2,423 cards were checked by their writers, not re-verified one by one.
+- **FRE 801(d)(1)(A) changes on December 1, 2026** (the "under penalty of perjury at a proceeding" requirement goes); the Evidence unit flags it and should be re-read on that date. Decisions from 2026 (Trump v. Slaughter and others) are carried as `recent` cards and should be re-read against the opinions.
+- **The share card and icon** are rendered from the mascot in `app.js`; re-run `npm run og` after changing Amicus.
+- **The domain** in the site metadata is a placeholder until the first deploy.
+- **NextGen mode** (select-two-of-six items, Business Associations, the Model Rules) is a later track, not v1.
+- The first courtroom (reading the call) opens with cards about the exam's format; a candidate who already knows the paper can skip to any subject, since the first lesson of every courtroom is open from day one.
+
+MIT license for the code. The content cites the rules and cases; it does not reproduce anyone's questions or outlines.
